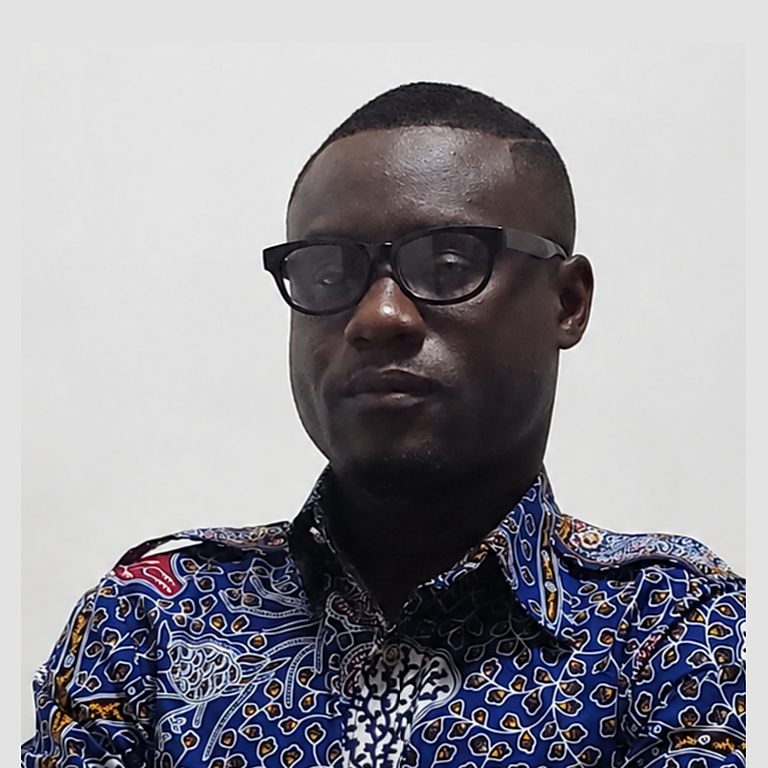
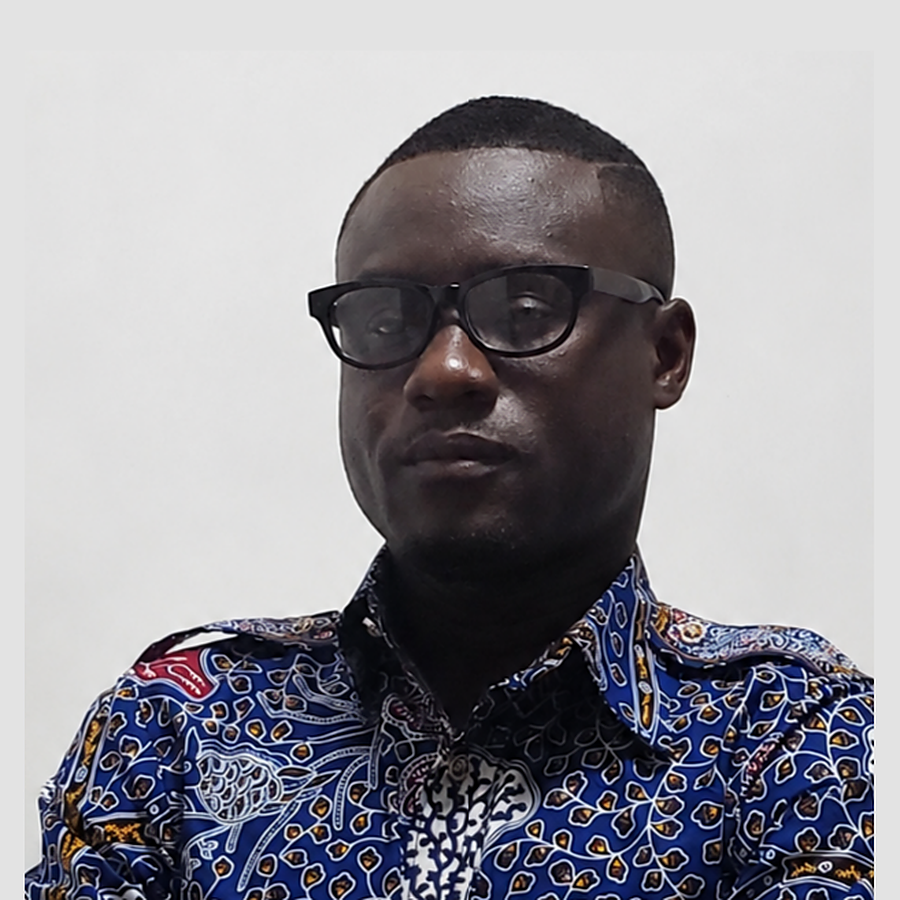
Enlarge founder portraits significantly and widen founder grid.

diff --git a/index.html b/index.html
@@ -11,7 +11,7 @@
   <link rel="preconnect" href="https://fonts.googleapis.com">
   <link rel="preconnect" href="https://fonts.gstatic.com" crossorigin>
   <link href="https://fonts.googleapis.com/css2?family=Lato:wght@300;400;700;900&family=Oswald:wght@400;500;600;700&display=swap" rel="stylesheet">
-  <link rel="stylesheet" href="assets/genehus.css?v=20260801al">
+  <link rel="stylesheet" href="assets/genehus.css?v=20260801am">
   <meta http-equiv="Cache-Control" content="no-cache">
 </head>
 <body>
@@ -288,7 +288,7 @@
       <p class="team-label" id="founders">Founders</p>
       <div class="founder-grid">
         <article class="person-card">
-          <img class="person-photo" src="assets/founder-nana.png?v=12" alt="Nana Safo Duker" width="580" height="580" loading="lazy" decoding="async">
+          <img class="person-photo" src="assets/founder-nana.png?v=13" alt="Nana Safo Duker" width="800" height="800" loading="lazy" decoding="async">
           <h3>Nana Safo Duker</h3>
           <p class="person-role">Co-Founder &amp; CEO</p>
           <a class="person-link" href="https://nana-safo-duker.github.io/" target="_blank" rel="noopener">Website</a>

diff --git a/assets/genehus.css b/assets/genehus.css
@@ -887,9 +887,9 @@ ol {
 .founder-grid {
   display: grid;
   grid-template-columns: 1fr 1fr;
-  gap: 16px;
+  gap: 24px;
   margin-bottom: 48px;
-  max-width: 70%;
+  max-width: 920px;
 }
 
 .person-card {
@@ -903,8 +903,8 @@ ol {
 }
 
 .person-photo {
-  width: 290px;
-  height: 290px;
+  width: 400px;
+  height: 400px;
   border-radius: 50%;
   object-fit: cover;
   object-position: center center;
